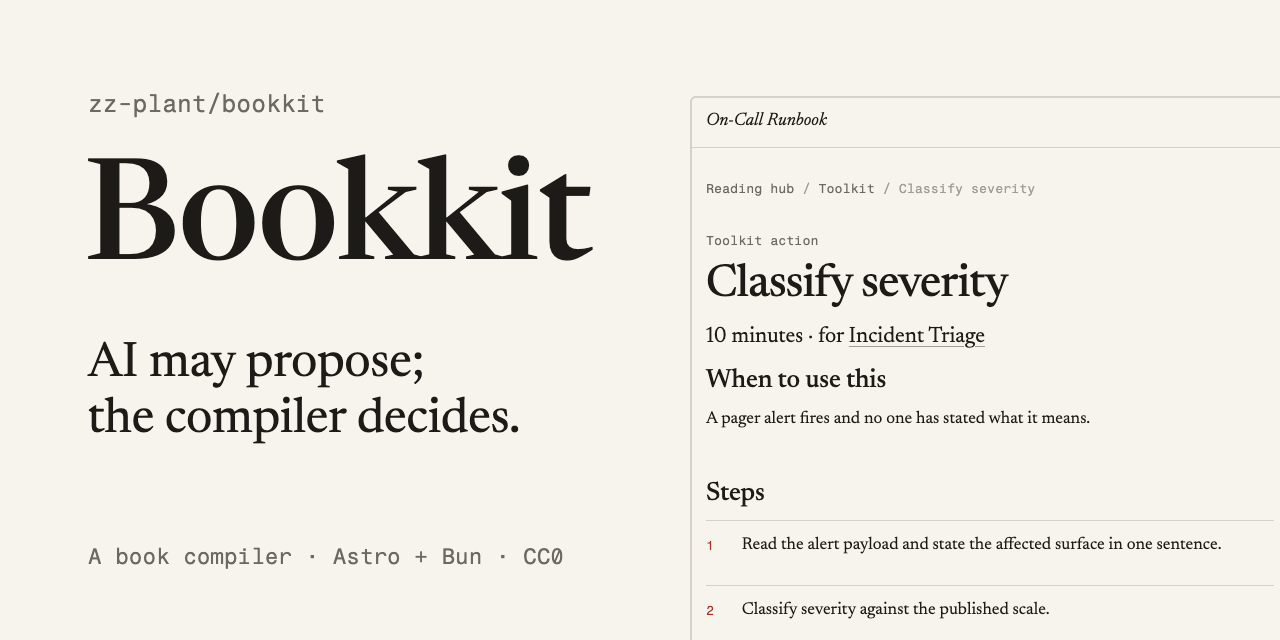
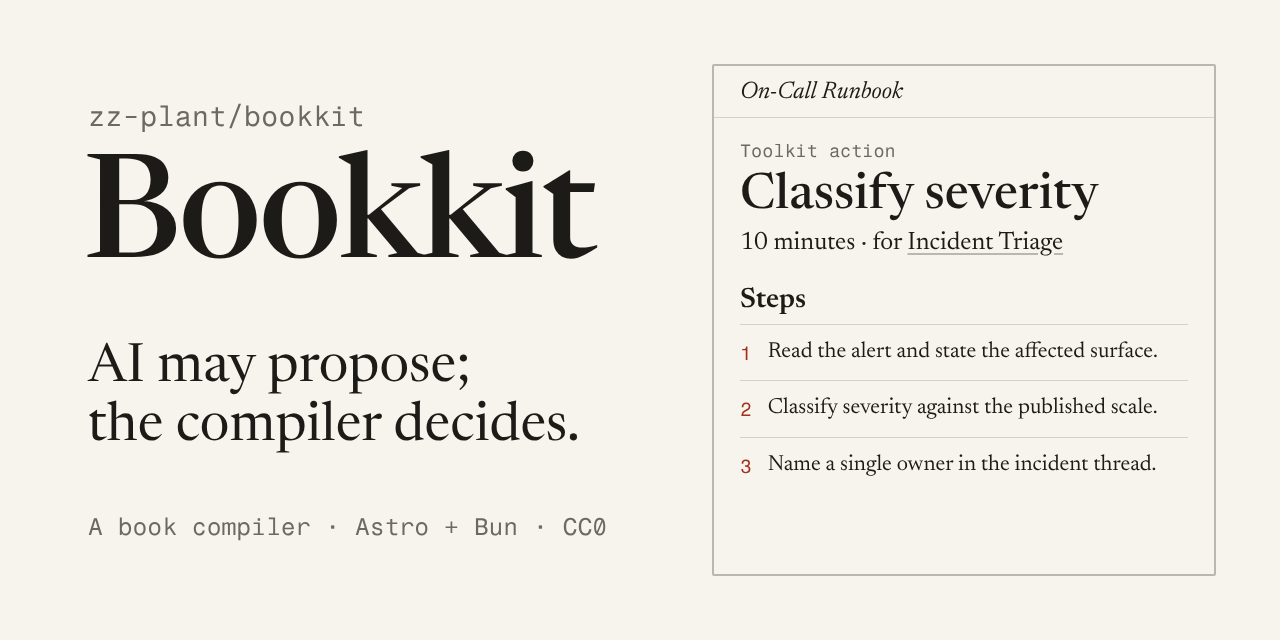
Redraw the social preview so nothing runs off its edges
docs/assets/social-preview.png (1280x640) had the On-Call Runbook panel
running off its right and bottom edges, cutting its steps short, which
reads as a broken crop. It is now a whole card 64px from every edge, with
three steps trimmed to fit; the repo label, wordmark, "AI may propose;
the compiler decides." and the stack line are kept, in Newsreader and
Fragment Mono on the paper colour.

The image now has a source beside it: social-preview.html is the layout,
and `bun docs/assets/social-preview.ts` renders it with Playwright at
1280x640, device scale 1, with the typefaces from the engine's
@fontsource dependencies. The render writes nothing if a typeface fails
to load, if anything leaves the 64px side and 48px top and bottom
margins, or if the card clips its own text.

.github/social-preview.png (1200x630, cropped by GitHub's 2:1 frame) is
removed; nothing referenced it.

Maintenance: the owner asked for this fix directly, which overrides the
maintenance-mode section of AGENTS.md. No engine files change.

Claude-Session: https://claude.ai/code/session_01DcfMrwoJebtJQPvPudgUjz

diff --git a/docs/assets/social-preview.ts b/docs/assets/social-preview.ts
@@ -1,0 +1,140 @@
+/**
+ * Renders social-preview.html to social-preview.png beside it: the
+ * repository's GitHub social preview, 1280×640 at device scale 1.
+ *
+ *   bun docs/assets/social-preview.ts
+ *
+ * It needs the Chromium build the pinned Playwright expects
+ * (`bunx playwright install chromium-headless-shell`), or another one named
+ * by CHROMIUM_PATH.
+ *
+ * The typefaces come from the engine's @fontsource dependencies, inlined as
+ * data URLs so the file:// page can use them. The render fails, and writes
+ * nothing, if a typeface did not load, if any text or box leaves the frame's
+ * margins (64px left and right, 48px top and bottom), or if anything inside
+ * the runbook card is clipped by it.
+ */
+import { readFileSync } from "node:fs";
+import { createRequire } from "node:module";
+import { dirname, join } from "node:path";
+import { fileURLToPath, pathToFileURL } from "node:url";
+import { chromium } from "playwright";
+
+const here = dirname(fileURLToPath(import.meta.url));
+const engine = createRequire(
+	join(here, "../../packages/astro-bookkit/package.json"),
+);
+const font = (specifier: string): string =>
+	`data:font/woff2;base64,${readFileSync(engine.resolve(specifier)).toString("base64")}`;
+
+const fontFaces = `
+@font-face {
+	font-family: "Newsreader Variable";
+	font-style: normal;
+	font-weight: 200 800;
+	src: url(${font("@fontsource-variable/newsreader/files/newsreader-latin-opsz-normal.woff2")}) format("woff2-variations");
+}
+@font-face {
+	font-family: "Newsreader Variable";
+	font-style: italic;
+	font-weight: 200 800;
+	src: url(${font("@fontsource-variable/newsreader/files/newsreader-latin-opsz-italic.woff2")}) format("woff2-variations");
+}
+@font-face {
+	font-family: "Fragment Mono";
+	font-style: normal;
+	font-weight: 400;
+	src: url(${font("@fontsource/fragment-mono/files/fragment-mono-latin-400-normal.woff2")}) format("woff2");
+}`;
+
+const WIDTH = 1280;
+const HEIGHT = 640;
+const MARGIN_X = 64;
+const MARGIN_Y = 48;
+
+const browser = await chromium.launch(
+	process.env.CHROMIUM_PATH
+		? { executablePath: process.env.CHROMIUM_PATH }
+		: {},
+);
+try {
+	const page = await browser.newPage({
+		viewport: { width: WIDTH, height: HEIGHT },
+		deviceScaleFactor: 1,
+	});
+	await page.goto(pathToFileURL(join(here, "social-preview.html")).href);
+	await page.addStyleTag({ content: fontFaces });
+	const problems = await page.evaluate(
+		async ({ width, height, marginX, marginY }) => {
+			await document.fonts.ready;
+			const found: string[] = [];
+			for (const family of [
+				'500 40px "Newsreader Variable"',
+				'italic 40px "Newsreader Variable"',
+				'40px "Fragment Mono"',
+			]) {
+				await document.fonts.load(family);
+				if (!document.fonts.check(family))
+					found.push(`typeface not loaded: ${family}`);
+			}
+			const name = (el: Element) =>
+				`${el.tagName.toLowerCase()}${el.className ? `.${el.className}` : ""} "${(el.textContent ?? "").trim().slice(0, 40)}"`;
+			// Text boxes, not element boxes: a line's glyphs are what must not be cut.
+			const textRects = (el: Element) => {
+				const range = document.createRange();
+				range.selectNodeContents(el);
+				return [...range.getClientRects()];
+			};
+			const frame = document.querySelector(".frame");
+			if (!frame) return ["no .frame element"];
+			for (const el of frame.querySelectorAll("*")) {
+				for (const r of [el.getBoundingClientRect(), ...textRects(el)]) {
+					if (r.width === 0 && r.height === 0) continue;
+					if (
+						r.left < marginX ||
+						r.right > width - marginX ||
+						r.top < marginY ||
+						r.bottom > height - marginY
+					)
+						found.push(
+							`outside the margins: ${name(el)} at ${Math.round(r.left)},${Math.round(r.top)}–${Math.round(r.right)},${Math.round(r.bottom)}`,
+						);
+				}
+			}
+			for (const box of frame.querySelectorAll("[data-contained]")) {
+				const outer = box.getBoundingClientRect();
+				const style = getComputedStyle(box);
+				const inner = {
+					left: outer.left + Number.parseFloat(style.borderLeftWidth),
+					right: outer.right - Number.parseFloat(style.borderRightWidth),
+					top: outer.top + Number.parseFloat(style.borderTopWidth),
+					bottom: outer.bottom - Number.parseFloat(style.borderBottomWidth),
+				};
+				for (const el of box.querySelectorAll("*")) {
+					for (const r of textRects(el)) {
+						if (
+							r.left < inner.left ||
+							r.right > inner.right ||
+							r.top < inner.top ||
+							r.bottom > inner.bottom
+						)
+							found.push(`clipped by the card: ${name(el)}`);
+					}
+				}
+			}
+			return found;
+		},
+		{ width: WIDTH, height: HEIGHT, marginX: MARGIN_X, marginY: MARGIN_Y },
+	);
+	if (problems.length > 0) {
+		console.error(problems.join("\n"));
+		console.error("social-preview.png not written.");
+		process.exitCode = 1;
+	} else {
+		const out = join(here, "social-preview.png");
+		await page.screenshot({ path: out, type: "png" });
+		console.log(`wrote ${out} (${WIDTH}×${HEIGHT})`);
+	}
+} finally {
+	await browser.close();
+}

diff --git a/docs/assets/social-preview.html b/docs/assets/social-preview.html
@@ -1,0 +1,166 @@
+<!doctype html>
+<!--
+  The repository's GitHub social preview (Settings → General → Social
+  preview). Rendered to social-preview.png at 1280×640 by social-preview.ts,
+  which adds the books' typefaces (Newsreader, Fragment Mono) from the
+  engine's @fontsource dependencies. Everything but the background stays
+  inside the frame: the runbook card keeps 64px from every edge.
+-->
+<html lang="en">
+	<head>
+		<meta charset="utf-8" />
+		<title>Bookkit social preview</title>
+		<style>
+			:root {
+				--paper: #f7f4ed;
+				--ink: #1d1b17;
+				--rubric: #a3301c;
+				--muted: color-mix(in srgb, var(--ink) 64%, var(--paper));
+				--rule: color-mix(in srgb, var(--ink) 28%, var(--paper));
+				--border: color-mix(in srgb, var(--ink) 16%, var(--paper));
+				--text: "Newsreader Variable", Georgia, serif;
+				--apparatus: "Fragment Mono", ui-monospace, monospace;
+			}
+			* {
+				box-sizing: border-box;
+				margin: 0;
+				padding: 0;
+			}
+			html,
+			body {
+				width: 1280px;
+				height: 640px;
+				overflow: hidden;
+				background: var(--paper);
+				color: var(--ink);
+				font-family: var(--text);
+			}
+			.frame {
+				position: relative;
+				width: 1280px;
+				height: 640px;
+			}
+			.intro {
+				position: absolute;
+				left: 88px;
+				top: 64px;
+				bottom: 64px;
+				width: 540px;
+				display: flex;
+				flex-direction: column;
+				justify-content: center;
+			}
+			.repo {
+				font-family: var(--apparatus);
+				font-size: 28px;
+				color: var(--muted);
+			}
+			.wordmark {
+				font-size: 144px;
+				font-weight: 500;
+				line-height: 1;
+				letter-spacing: -0.02em;
+				margin: 18px 0 0 -5px;
+			}
+			.claim {
+				font-size: 54px;
+				line-height: 1.08;
+				margin-top: 44px;
+			}
+			.stack {
+				font-family: var(--apparatus);
+				font-size: 24px;
+				color: var(--muted);
+				margin-top: 56px;
+			}
+			.card {
+				position: absolute;
+				left: 712px;
+				right: 64px;
+				top: 64px;
+				bottom: 64px;
+				border: 2px solid var(--rule);
+				border-radius: 2px;
+				background: var(--paper);
+				overflow: hidden;
+			}
+			.card-head {
+				font-style: italic;
+				font-size: 24px;
+				padding: 14px 26px 13px;
+				border-bottom: 1px solid var(--border);
+			}
+			.card-body {
+				padding: 22px 26px 0;
+			}
+			.kind {
+				font-family: var(--apparatus);
+				font-size: 18px;
+				color: var(--muted);
+			}
+			.card h2 {
+				font-size: 50px;
+				font-weight: 500;
+				line-height: 1.05;
+				margin-top: 8px;
+			}
+			.meta {
+				font-size: 25px;
+				margin-top: 8px;
+			}
+			.meta span {
+				text-decoration: underline;
+				text-decoration-color: var(--rule);
+				text-underline-offset: 4px;
+			}
+			.card h3 {
+				font-size: 28px;
+				font-weight: 600;
+				margin-top: 30px;
+			}
+			.steps {
+				list-style: none;
+				margin-top: 10px;
+			}
+			.steps li {
+				display: flex;
+				gap: 16px;
+				font-size: 22px;
+				line-height: 1.25;
+				padding: 14px 0;
+				border-top: 1px solid var(--border);
+			}
+			.steps b {
+				font-family: var(--apparatus);
+				font-weight: 400;
+				font-size: 19px;
+				color: var(--rubric);
+				padding-top: 3px;
+			}
+		</style>
+	</head>
+	<body>
+		<main class="frame">
+			<section class="intro">
+				<p class="repo">zz-plant/bookkit</p>
+				<h1 class="wordmark">Bookkit</h1>
+				<p class="claim">AI may propose;<br />the compiler decides.</p>
+				<p class="stack">A book compiler · Astro + Bun · CC0</p>
+			</section>
+			<section class="card" data-contained>
+				<p class="card-head">On-Call Runbook</p>
+				<div class="card-body">
+					<p class="kind">Toolkit action</p>
+					<h2>Classify severity</h2>
+					<p class="meta">10 minutes · for <span>Incident Triage</span></p>
+					<h3>Steps</h3>
+					<ol class="steps">
+						<li><b>1</b>Read the alert and state the affected surface.</li>
+						<li><b>2</b>Classify severity against the published scale.</li>
+						<li><b>3</b>Name a single owner in the incident thread.</li>
+					</ol>
+				</div>
+			</section>
+		</main>
+	</body>
+</html>

diff --git a/CHANGELOG.md b/CHANGELOG.md
@@ -4,6 +4,13 @@ Dated, documented behavior changes to the Bookkit engine, schemas, validators, a
 Per-book editorial history lives in each app's `src/content/book/releases/`.
 This file holds the current month, newest first. Earlier months are in `docs/changelog/`, one file each; when a month ends, its entries move there.
 
+## 2026-11-10 — Social preview no longer cropped
+
+- **`docs/assets/social-preview.png` is redrawn at 1280×640.** The On-Call Runbook panel on its right ran off the right and bottom edges and cut its steps short. It is now a whole card, 64px from every edge, with three steps that fit.
+- **It has a source.** `docs/assets/social-preview.html` is the layout and `bun docs/assets/social-preview.ts` renders it with Playwright in the books' typefaces. The render writes nothing if a typeface fails to load, if anything leaves the 64px side and 48px top and bottom margins, or if the card clips its own text.
+- **Removed: `.github/social-preview.png`** (1200×630, which GitHub crops to 2:1). Nothing referenced it. The image to upload under Settings → General → Social preview is `docs/assets/social-preview.png`.
+- **Migration:** none.
+
 ## 2026-11-10 — Ask says who wrote the answer
 
 - **A model's answer no longer looks like the book.** A passage quoted from the book and an answer written by the server's model were the same paragraph in the book's typeface, told apart by one word in a grey line under it ("assembled" or "synthesized"). A model's answer is now set in the apparatus face (Fragment Mono, at a 68-character measure); the book's own words keep Newsreader.
